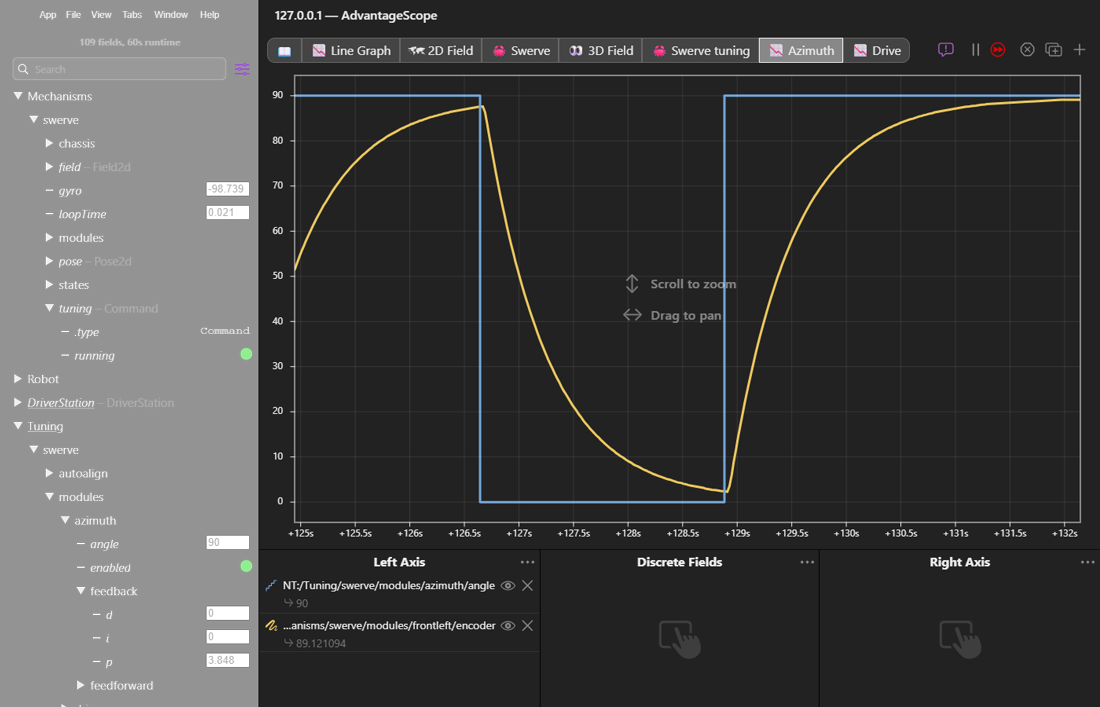
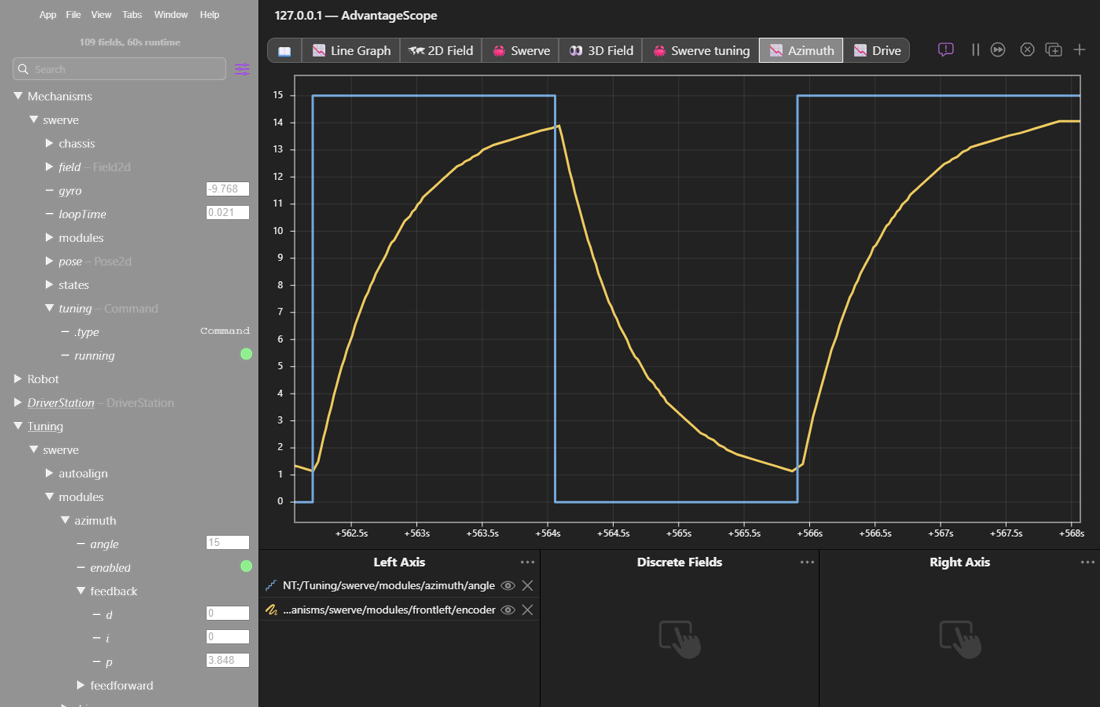
Azimuth tuning: step the angle by 15 degrees instead of 90
Retake the AdvantageScope screenshots with a 15 degree step and match the
animation and the tutorial text.

diff --git a/tutorial/04-verify-and-calibrate-hardware.md b/tutorial/04-verify-and-calibrate-hardware.md
@@ -30,13 +30,13 @@ Run the robot program in simulation and go through live tuning once before you t
 
 <figure><img src="../.gitbook/assets/yagsl-live-tuning-start.gif" alt="An animation of a dashboard. First the robot mode is set to Utility. Then Mechanisms/swerve/tuning is set to running: true. Then Tuning/swerve/modules/azimuth/enabled is set to true. Notes beside it explain each step: Utility mode with nothing else driving, starting the tuning command, and picking one tuning mode at a time."><figcaption><p>Utility mode, the tuning command, then one tuning mode.</p></figcaption></figure>
 
-**Tune the azimuth first**, so the wheels point where they are told while you tune the drive. Set `Tuning/swerve/modules/azimuth/enabled` to `true` and switch `modules/azimuth/angle` between `0` and `90`. Raise `feedback/p` until the modules snap to the angle; if they overshoot and shake, back it off and add a little `feedback/d`.
+**Tune the azimuth first**, so the wheels point where they are told while you tune the drive. Set `Tuning/swerve/modules/azimuth/enabled` to `true` and switch `modules/azimuth/angle` between `0` and `15`. Raise `feedback/p` until the modules snap to the angle; if they overshoot and shake, back it off and add a little `feedback/d`.
 
-<figure><img src="../.gitbook/assets/yagsl-tune-azimuth.gif" alt="An animation of every module turning from 0 to 90 degrees beside a graph of the desired and current angle. With p at 0.002 the modules turn slowly and are still short of 90 degrees. With p at 0.05 they overshoot and ring. With p at 0.03 and d at 0.0005 they turn quickly and settle. The values are only an example."><figcaption><p>Too slow, ringing, then quick and settled. The values are only an example.</p></figcaption></figure>
+<figure><img src="../.gitbook/assets/yagsl-tune-azimuth.gif" alt="An animation of every module turning from 0 to 15 degrees beside a graph of the desired and current angle. With p at 0.002 the modules turn slowly and are still short of 15 degrees. With p at 0.05 they overshoot and ring. With p at 0.03 and d at 0.0005 they turn quickly and settle. The values are only an example."><figcaption><p>Too slow, ringing, then quick and settled. The values are only an example.</p></figcaption></figure>
 
-<figure><img src="../.gitbook/assets/yagsl-ascope-azimuth-swerve.png" alt="AdvantageScope connected to the YAGSL example in simulation. The sidebar shows Mechanisms/swerve/tuning with running on, and Tuning/swerve/modules/azimuth with angle 90, enabled on and the feedback gains. The Swerve tab shows every module turned to 90 degrees, desired in red and current in blue."><figcaption><p>The real thing: azimuth tuning in AdvantageScope, every module at 90°.</p></figcaption></figure>
+<figure><img src="../.gitbook/assets/yagsl-ascope-azimuth-swerve.png" alt="AdvantageScope connected to the YAGSL example in simulation. The sidebar shows Mechanisms/swerve/tuning with running on, and Tuning/swerve/modules/azimuth with angle 15, enabled on and the feedback gains. The Swerve tab shows every module turned to 15 degrees, desired in red and current in blue."><figcaption><p>The real thing: azimuth tuning in AdvantageScope, every module at 15°.</p></figcaption></figure>
 
-<figure><img src="../.gitbook/assets/yagsl-ascope-azimuth-graph.png" alt="An AdvantageScope line graph of Tuning/swerve/modules/azimuth/angle stepping between 0 and 90 degrees and Mechanisms/swerve/modules/frontleft/encoder following it, settling a little short of each step."><figcaption><p>Graph Tuning/swerve/modules/azimuth/angle against a module's encoder to judge the gains.</p></figcaption></figure>
+<figure><img src="../.gitbook/assets/yagsl-ascope-azimuth-graph.png" alt="An AdvantageScope line graph of Tuning/swerve/modules/azimuth/angle stepping between 0 and 15 degrees and Mechanisms/swerve/modules/frontleft/encoder following it, settling a little short of each step."><figcaption><p>Graph Tuning/swerve/modules/azimuth/angle against a module's encoder to judge the gains.</p></figcaption></figure>
 
 **Then tune the drive.** Turn azimuth tuning off and set `modules/drive/enabled` to `true` with `modules/drive/velocity` at `2`. Zero `feedback/p`, raise `feedforward/v` until the velocity settles on 2 m/s, then add `feedback/p` until it gets there quickly and holds.
 

diff --git a/how-to/tune-pidf-gains.md b/how-to/tune-pidf-gains.md
@@ -164,9 +164,9 @@ var cfg = new SwerveDriveConfig()
 
 <figure><img src="../.gitbook/assets/yagsl-live-tuning-start.gif" alt="An animation of a dashboard. First the robot mode is set to Utility. Then Mechanisms/swerve/tuning is set to running: true. Then Tuning/swerve/modules/azimuth/enabled is set to true."><figcaption><p>Utility mode, the tuning command, then one tuning mode.</p></figcaption></figure>
 
-<figure><img src="../.gitbook/assets/yagsl-tune-azimuth.gif" alt="An animation of every module turning from 0 to 90 degrees beside a graph of the desired and current angle: too slow with a low p, overshooting and ringing with a high p, and quick and settled with a little less p plus some d. The values are only an example."><figcaption><p>Azimuth: raise p until it rings, then back off and add d. The values are only an example.</p></figcaption></figure>
+<figure><img src="../.gitbook/assets/yagsl-tune-azimuth.gif" alt="An animation of every module turning from 0 to 15 degrees beside a graph of the desired and current angle: too slow with a low p, overshooting and ringing with a high p, and quick and settled with a little less p plus some d. The values are only an example."><figcaption><p>Azimuth: raise p until it rings, then back off and add d. The values are only an example.</p></figcaption></figure>
 
-<figure><img src="../.gitbook/assets/yagsl-ascope-azimuth-graph.png" alt="An AdvantageScope line graph of Tuning/swerve/modules/azimuth/angle stepping between 0 and 90 degrees and Mechanisms/swerve/modules/frontleft/encoder following it, settling a little short of each step."><figcaption><p>Graph Tuning/swerve/modules/azimuth/angle against a module's encoder to judge the gains.</p></figcaption></figure>
+<figure><img src="../.gitbook/assets/yagsl-ascope-azimuth-graph.png" alt="An AdvantageScope line graph of Tuning/swerve/modules/azimuth/angle stepping between 0 and 15 degrees and Mechanisms/swerve/modules/frontleft/encoder following it, settling a little short of each step."><figcaption><p>Graph Tuning/swerve/modules/azimuth/angle against a module's encoder to judge the gains.</p></figcaption></figure>
 
 <figure><img src="../.gitbook/assets/yagsl-tune-drive.gif" alt="An animation of the drive velocity against a 2 meters per second setpoint: with feedforward v too low it settles below, with v right it settles on 2 meters per second, and adding p makes it get there quickly and hold. The values are only an example."><figcaption><p>Drive: zero the feedback, find feedforward v, then add p. The values are only an example.</p></figcaption></figure>
 
